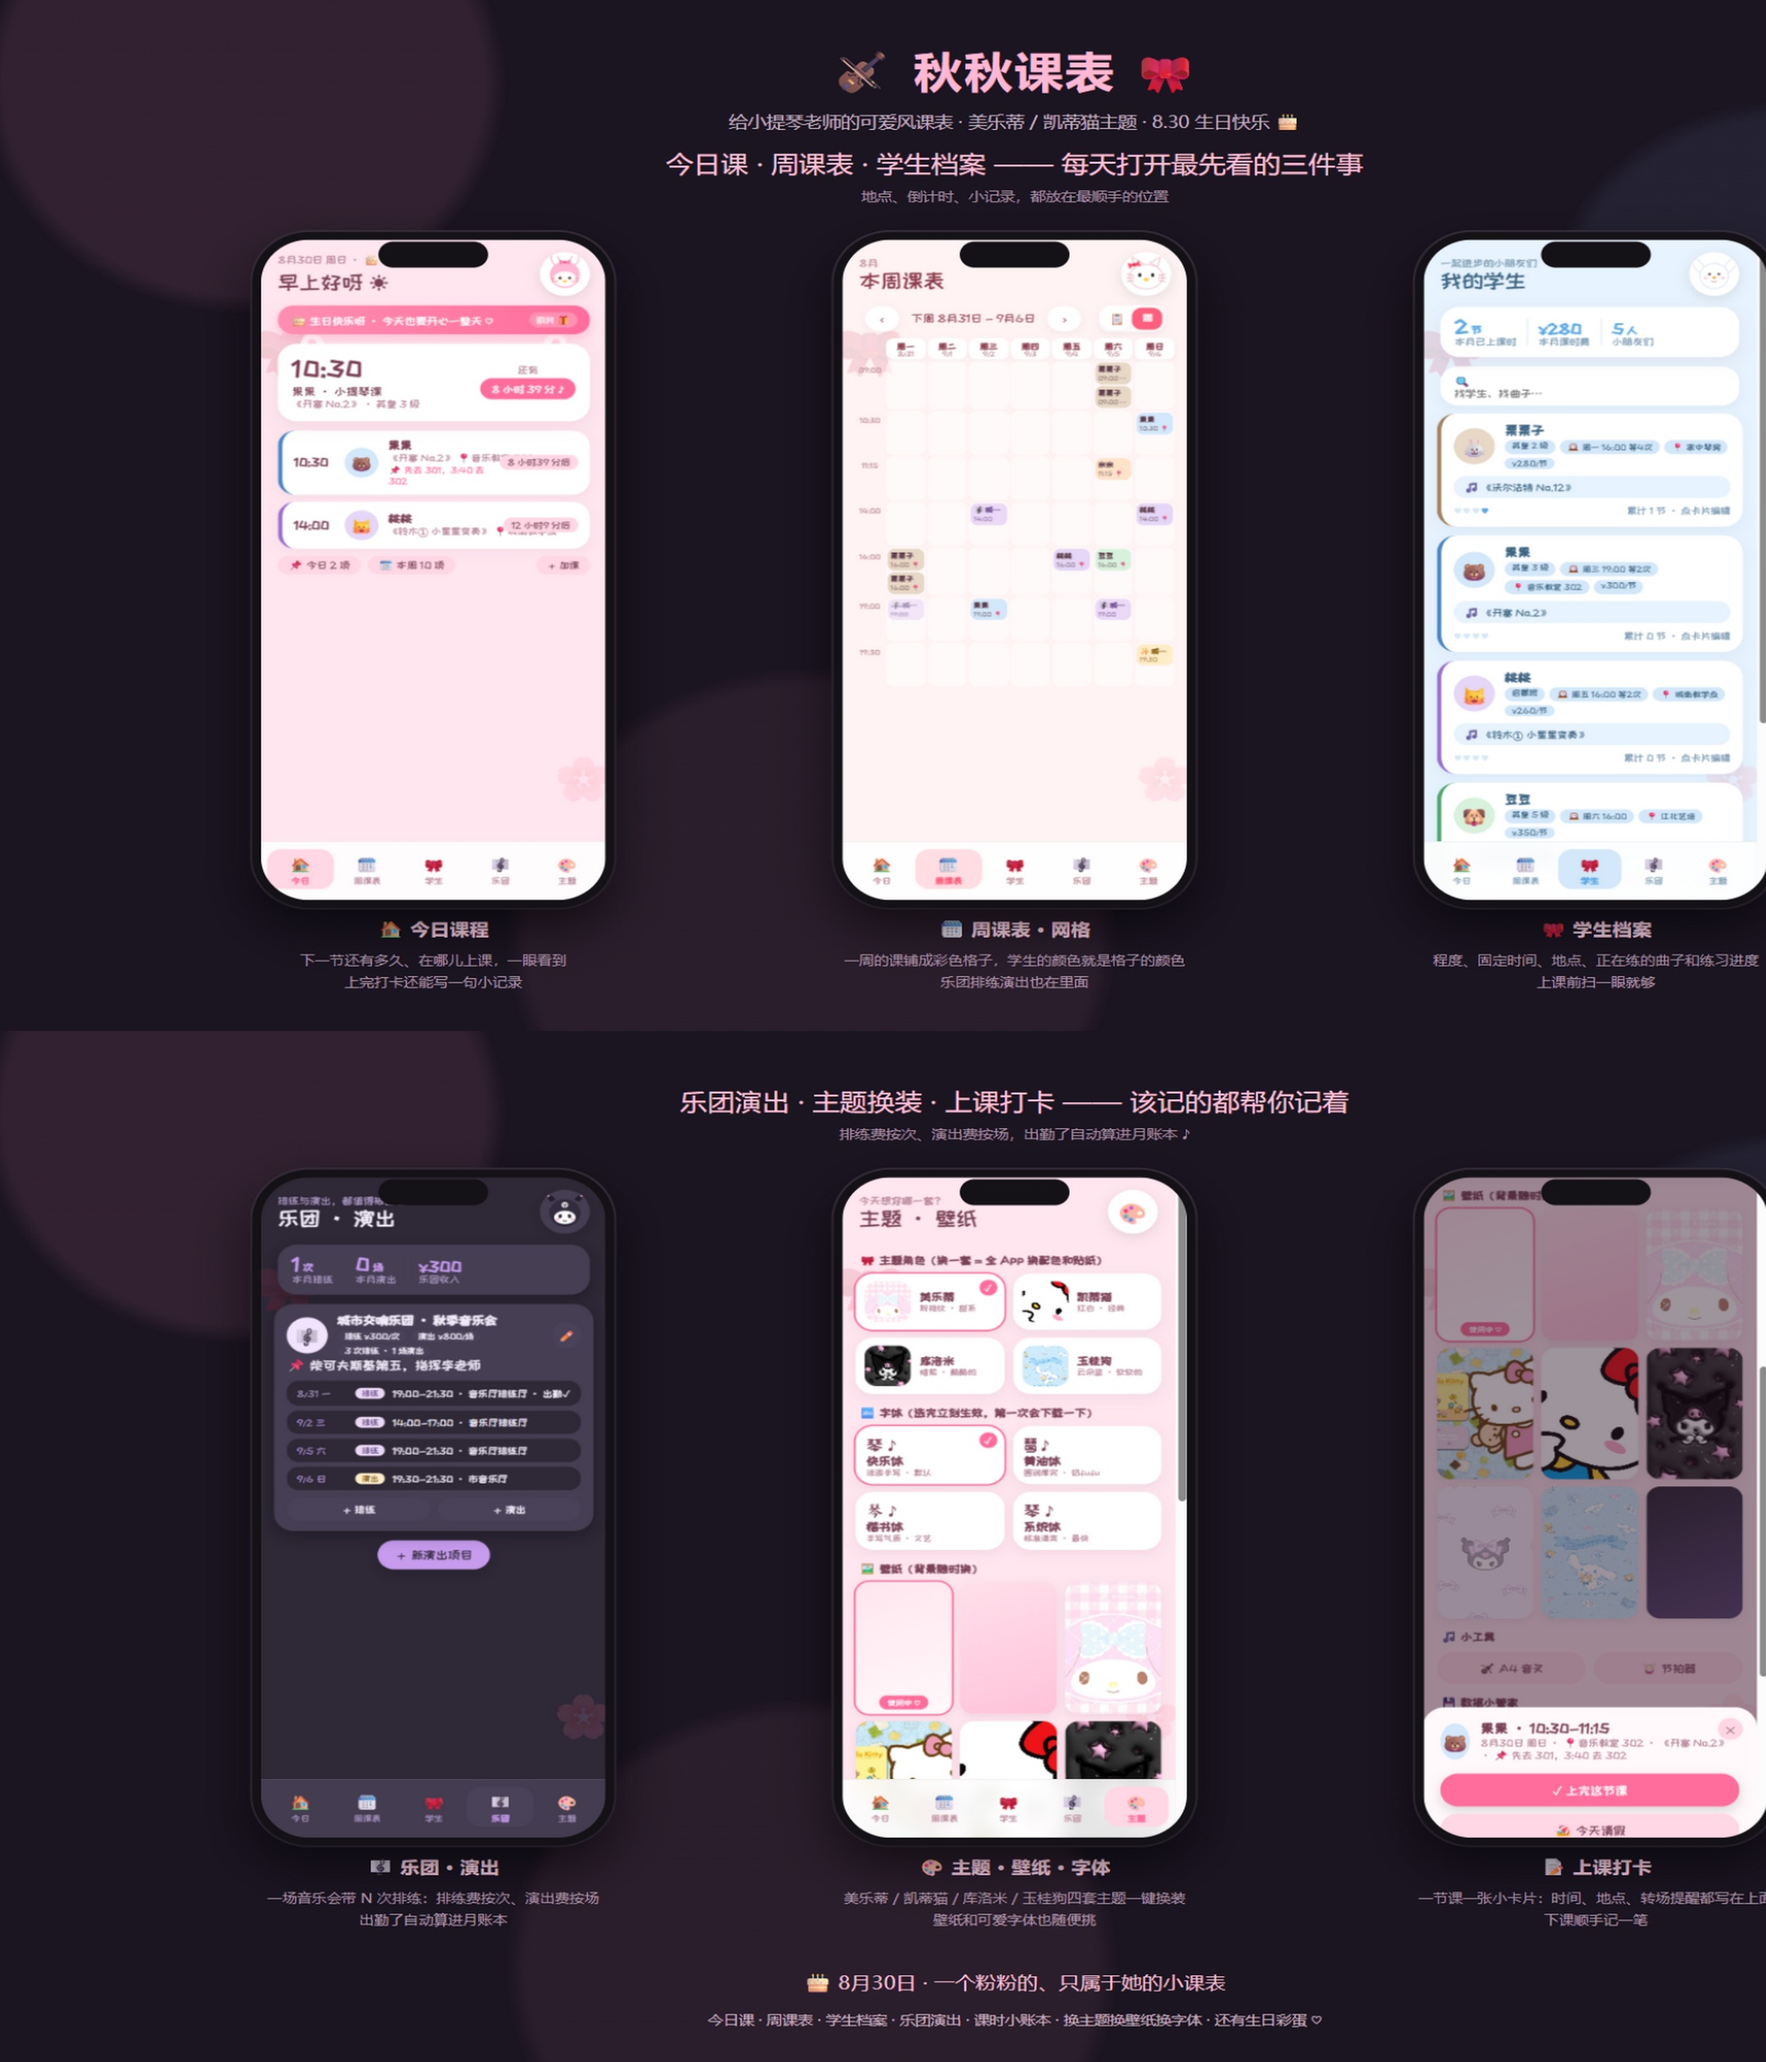
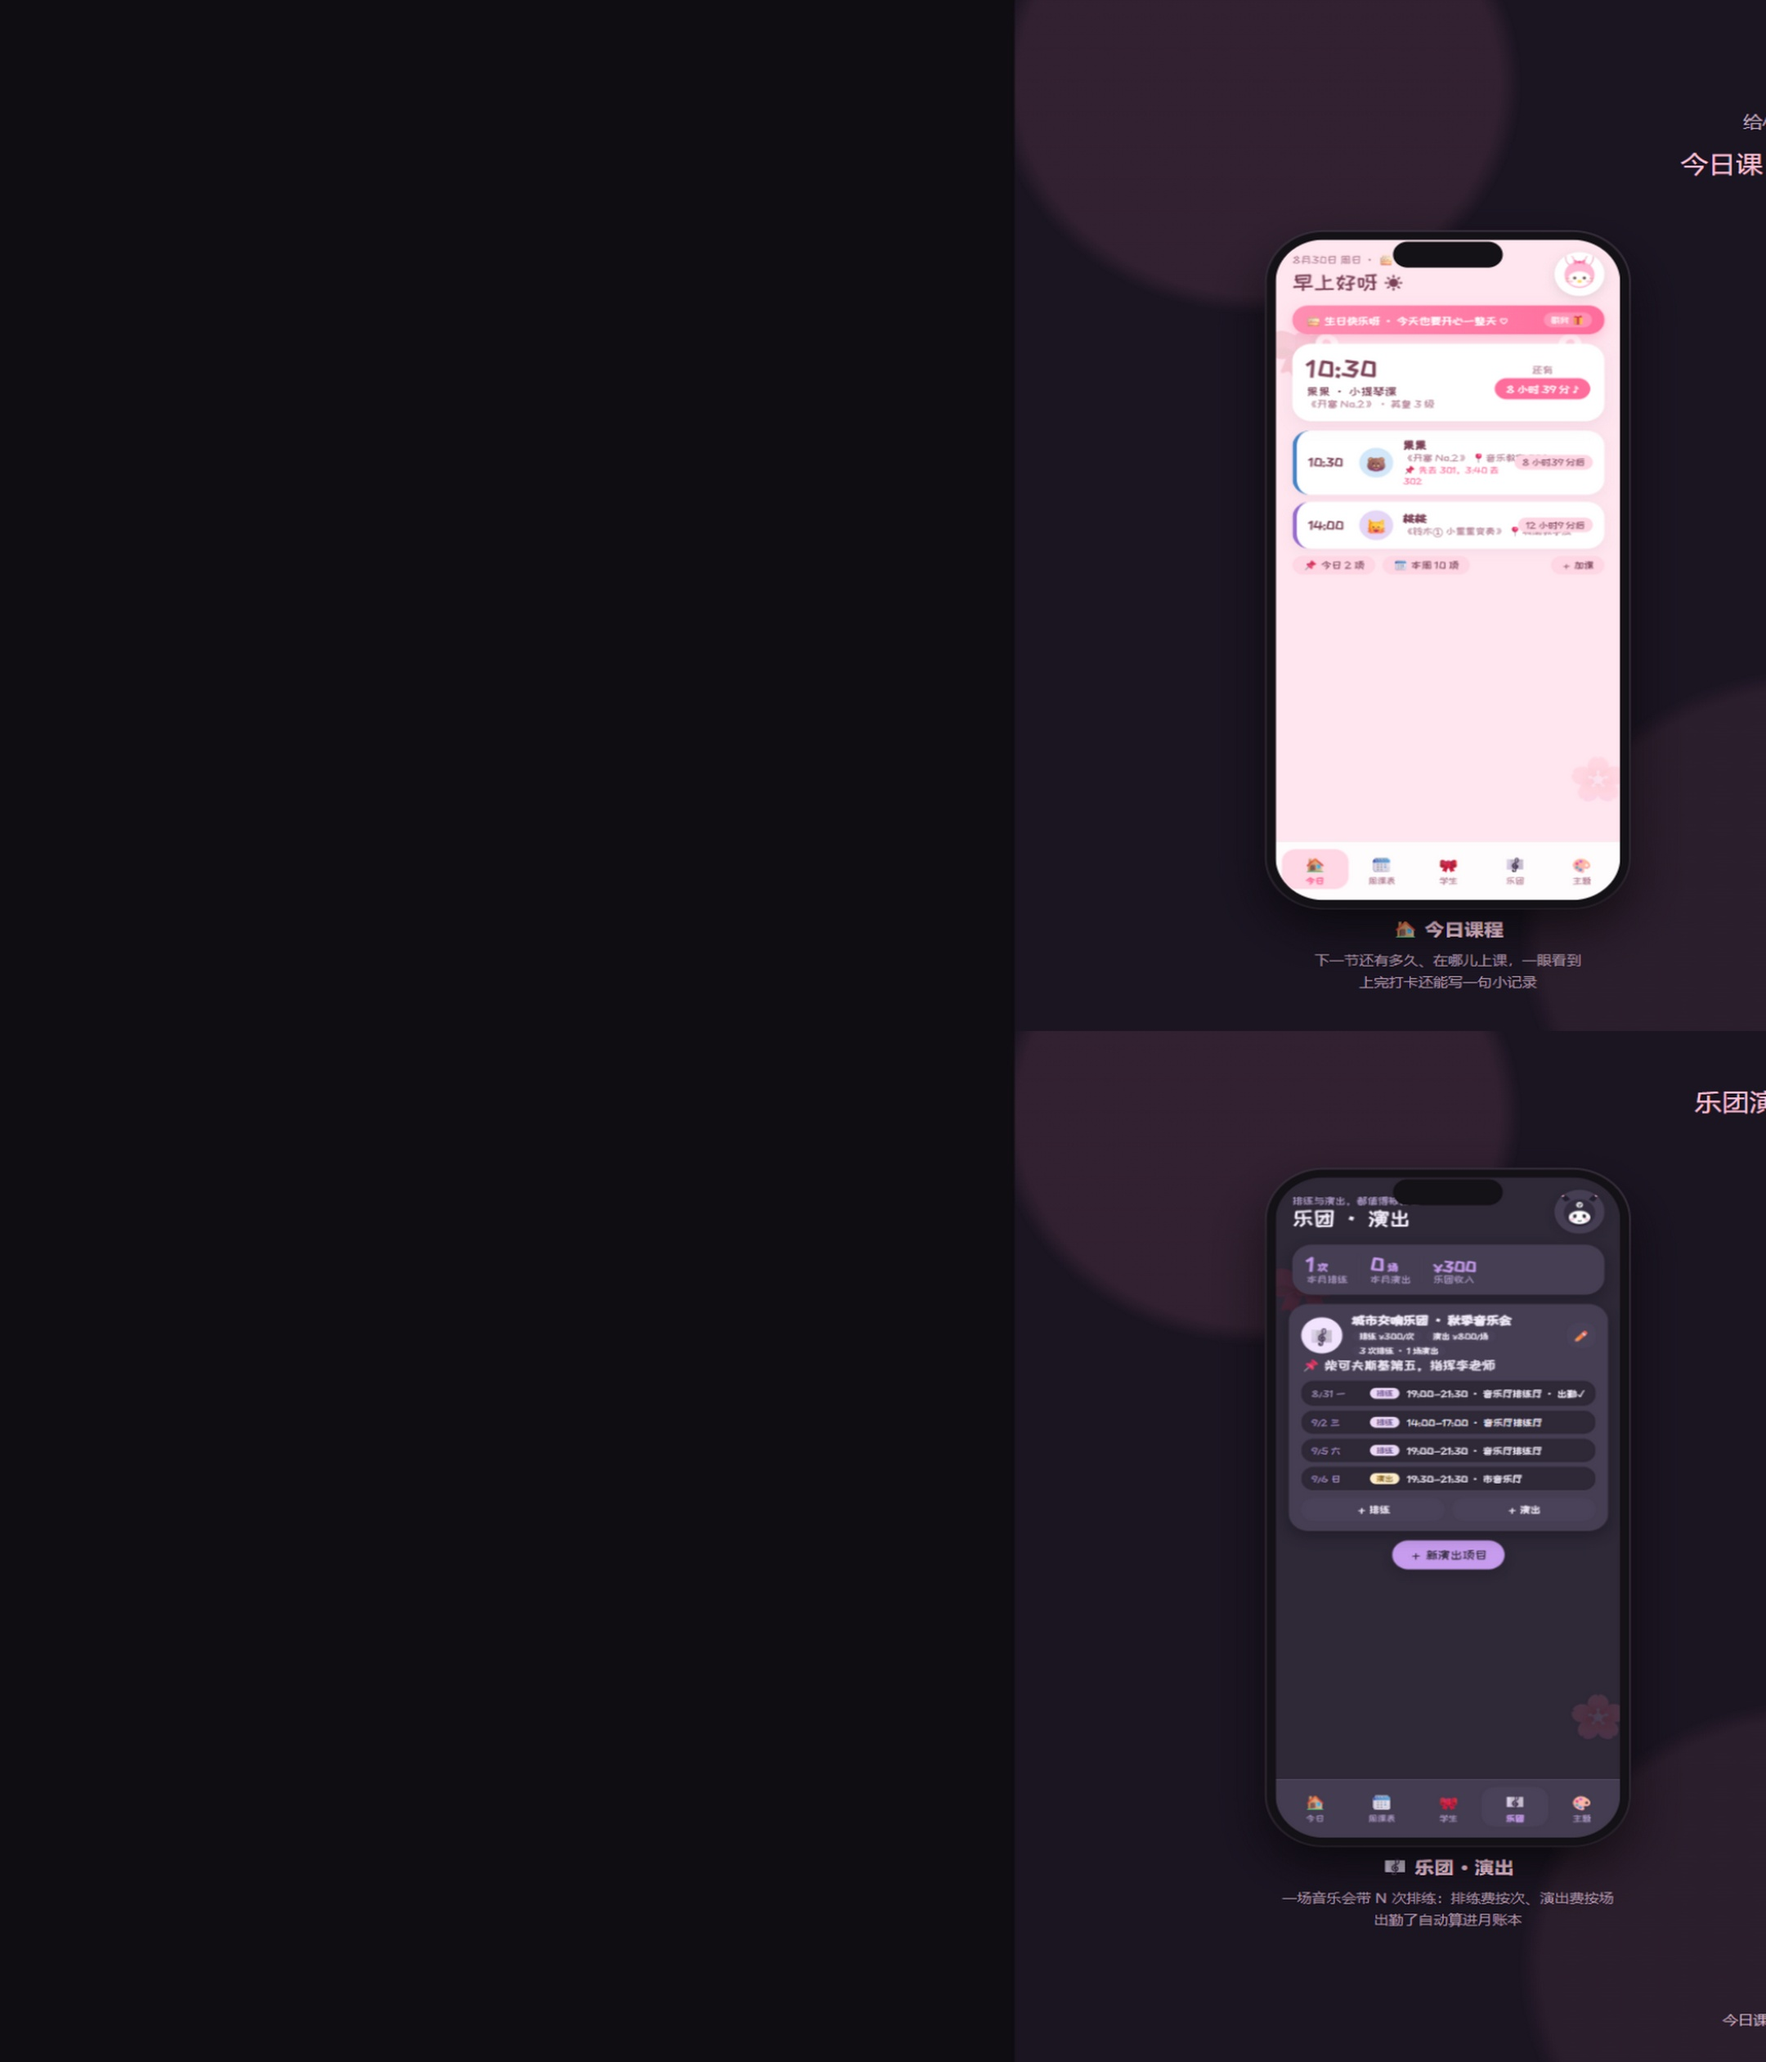
宣传板居中布局修复；母版按内容原始分辨率导出

diff --git a/mockup/share.html b/mockup/share.html
@@ -5,7 +5,8 @@
 <title>秋秋课表 · 宣传图</title>
 <style>
 *{margin:0;padding:0;box-sizing:border-box}
-body{background:#0f0c12}
+html,body{width:100%}
+body{background:#0f0c12;display:flex;flex-direction:column;align-items:center}
 .board{width:1850px;height:1080px;overflow:hidden;position:relative;
   font-family:'PingFang SC','Microsoft YaHei',sans-serif;
   background:#1b1522;color:#f2e9f0;
